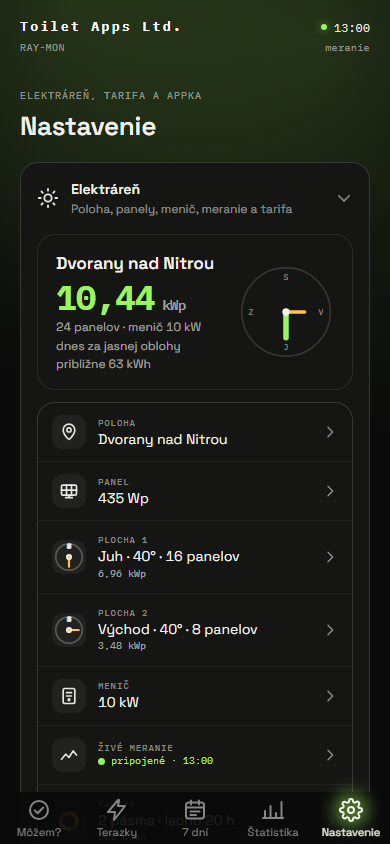
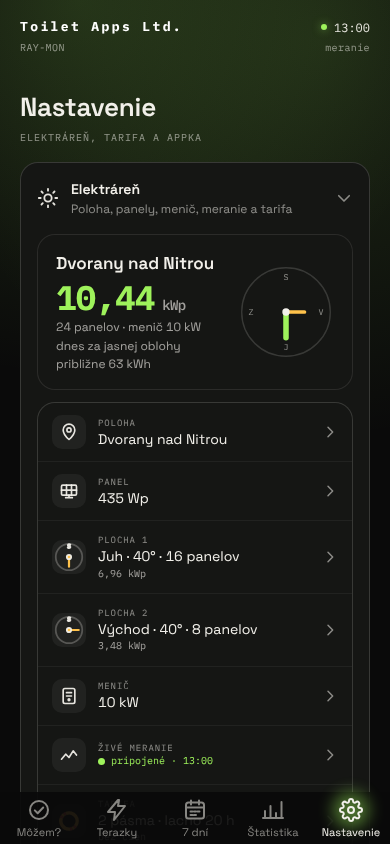
feat: v kartách 7 dní a Nastavenie je podnadpis pod nadpisom ako v Štatistike (#299)
## Čo sa mení

V súčasnej appke na mobile stál podnadpis kariet 7 dní („Dvorany nad
Nitrou · 10,44 kWp“) a Nastavenie („Elektráreň, tarifa a appka“) nad
nadpisom. Robilo to pravidlo `flex-direction: column-reverse` v
`style.css`. Pravidlo som zmazal, takže teraz sú všetky karty rovnaké
ako Štatistika: najprv nadpis, pod ním podnadpis.

Obloha sa nemení, toto pravidlo sa jej netýka.

## Overenie

- `npm run check`: zelené (351/351)
- e2e súčasnej appky (`test/e2e/app.spec.js`): zelené (128/128)
- `npm run screenshots`: aktualizované `docs/img/7dni.png` a
`docs/img/nastavenie.png`. Ostatné snímky som vrátil, lebo sa líšili len
inou verziou Chromia v tomto prostredí.

🤖 Generated with [Claude Code](https://claude.com/claude-code)

https://claude.ai/code/session_01Uc7j8gxoa9Ln2bg6vQ1TvK

---------

diff --git a/style.css b/style.css
@@ -2344,20 +2344,6 @@ body:has(#page[data-panel='terazky']) .appbar-info {
 }
 
 /* ---- 7 dní: rebríček dní (prehľad na mobile) -------------------------------- */
-/* Na mobile ide riadok s elektrárňou nad nadpis - hovorí, o čom predpoveď je, skôr než čo
-   to je. Len poradie zobrazenia; na širokej obrazovke ostáva hlavička, ako bola. */
-@media (max-width: 767px) {
-    #week-head,
-    #settings-head {
-        display: flex;
-        flex-direction: column-reverse;
-        gap: var(--sp-1);
-    }
-    #week-head .section-sub,
-    #settings-head .section-sub {
-        margin-top: 0;
-    }
-}
 /* Osem kariet pod sebou: bublina so súčtom za týždeň a pod ňou sedem dní, každý vo vlastnom
    ráme. Súčet a deň tak vyzerajú ako to, čím sú - dve rovnocenné tlačidlá, jedno do detailu
    týždňa, druhé do detailu dňa - a dni sa od seba jasne oddelia. Pásik ukazuje, kedy v ten
